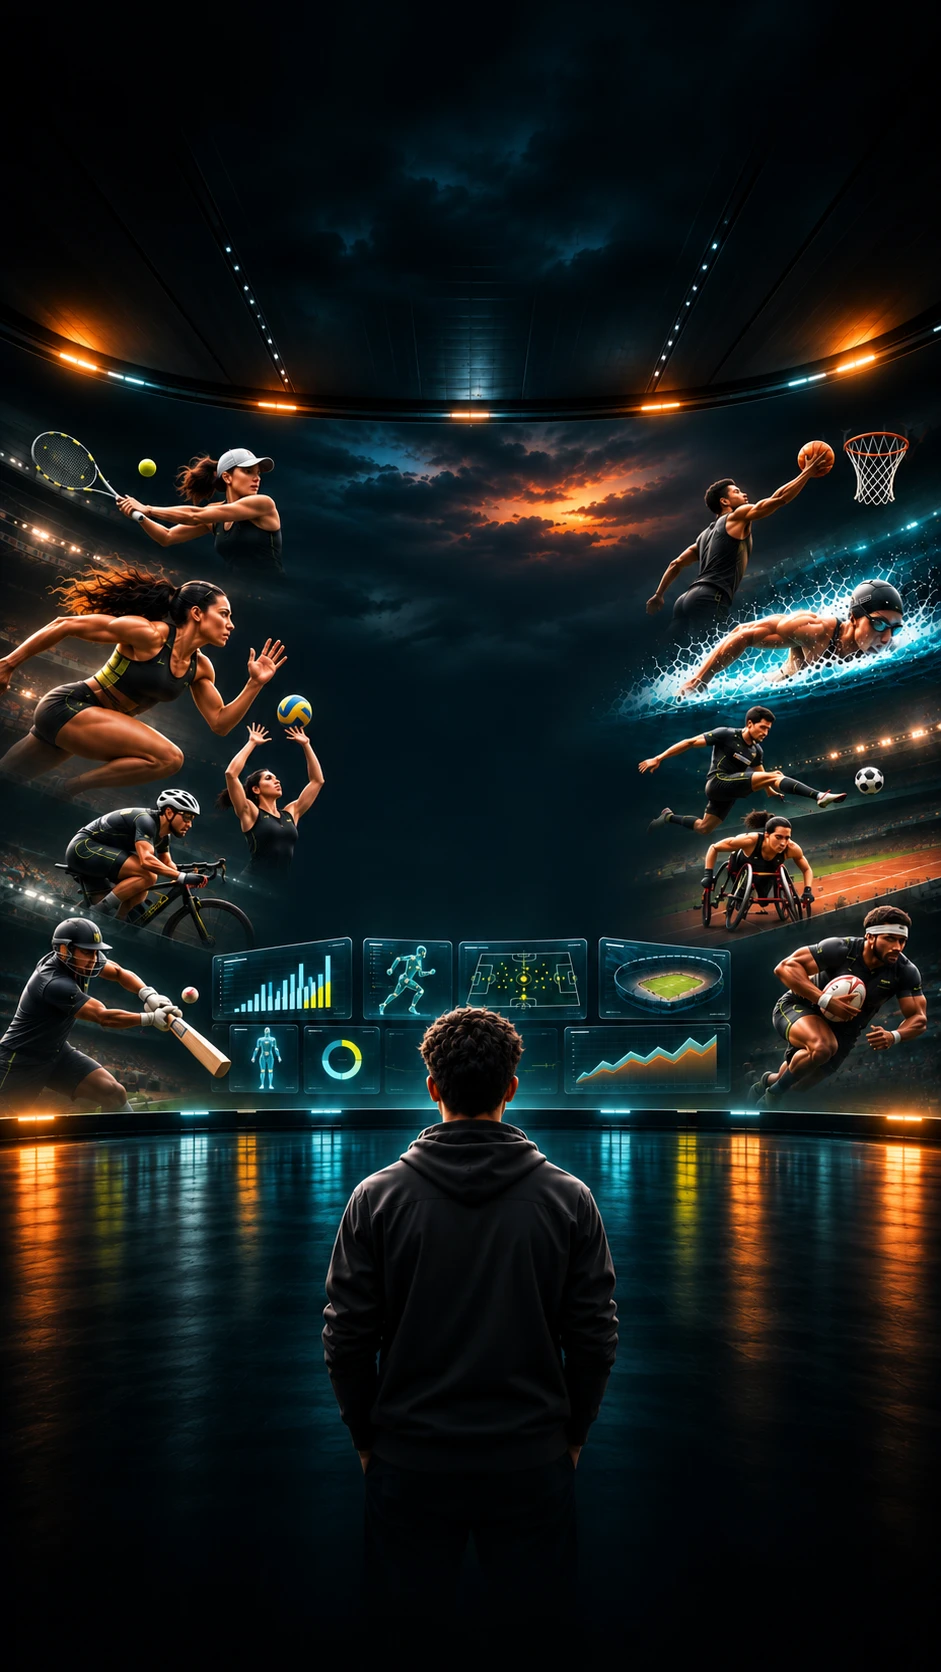
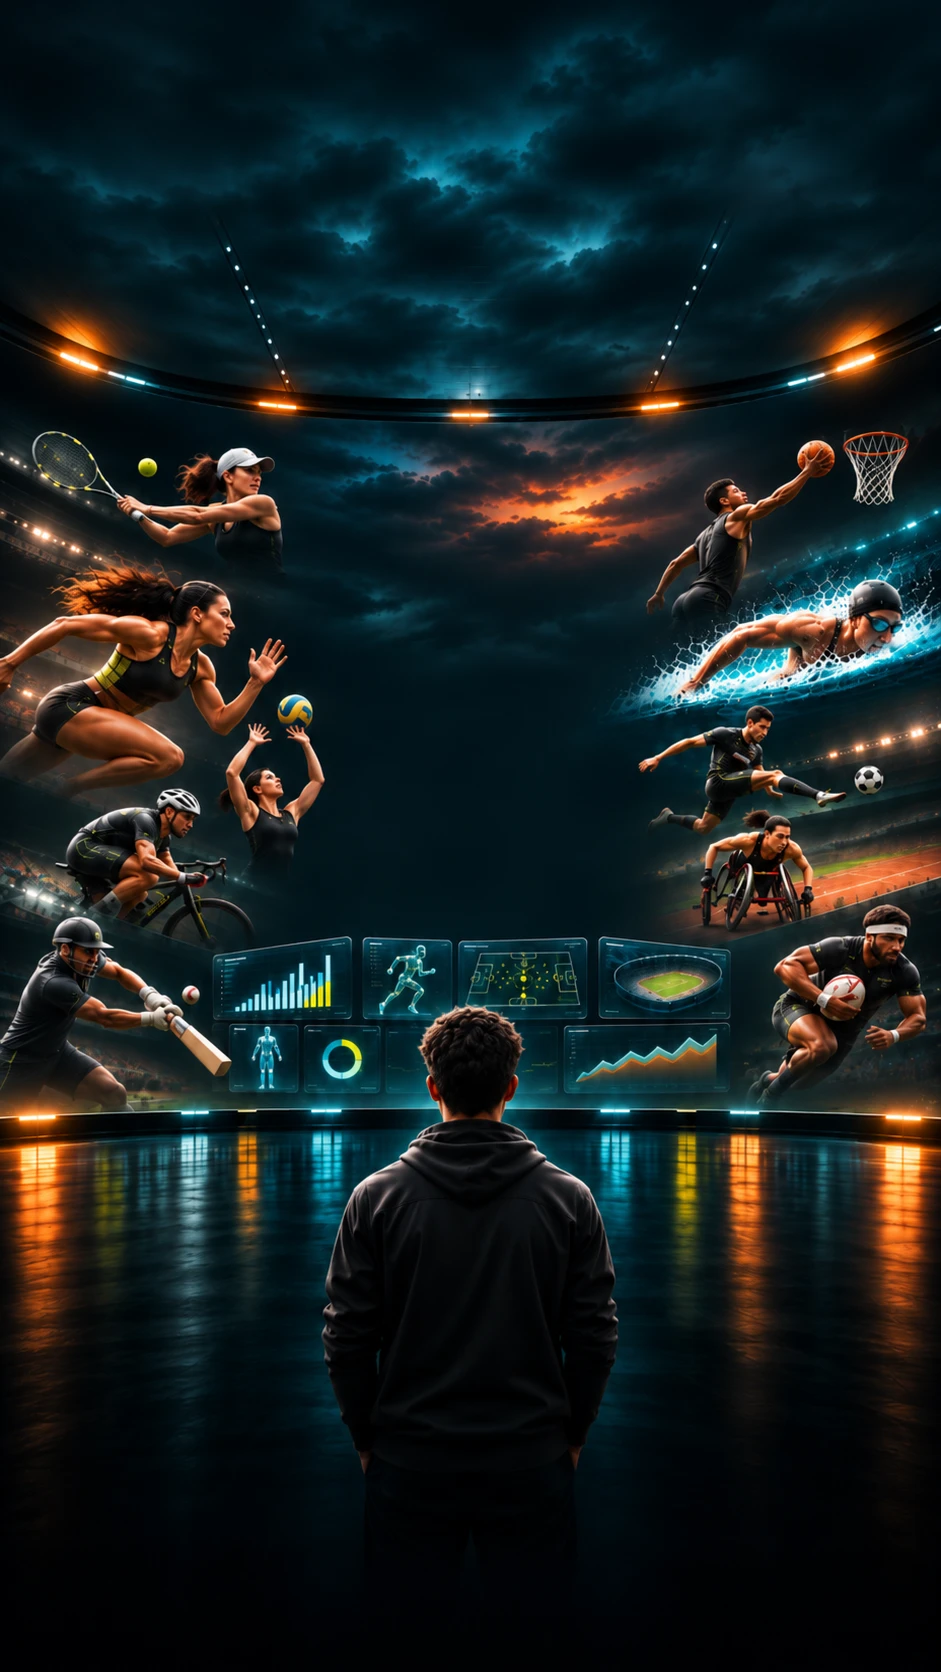
Phone Gateway: tall artwork with a visible stormy sky to the top edge, toned to match
Claude-Session: https://claude.ai/code/session_01F1RUf5ZQ5HVhPWDPwEZ9Ew

diff --git a/src/app/globals.css b/src/app/globals.css
@@ -604,6 +604,7 @@ body:has([data-gateway-page]) footer {
     aspect-ratio: 941 / 1672;
   }
   .gw-art {
+    --tone: brightness(0.94); /* matches the upright and wide artwork as rendered */
     -webkit-mask-image: linear-gradient(to bottom, transparent 0%, #000 3%, #000 97%, transparent 100%);
     mask-image: linear-gradient(to bottom, transparent 0%, #000 3%, #000 97%, transparent 100%);
   }
